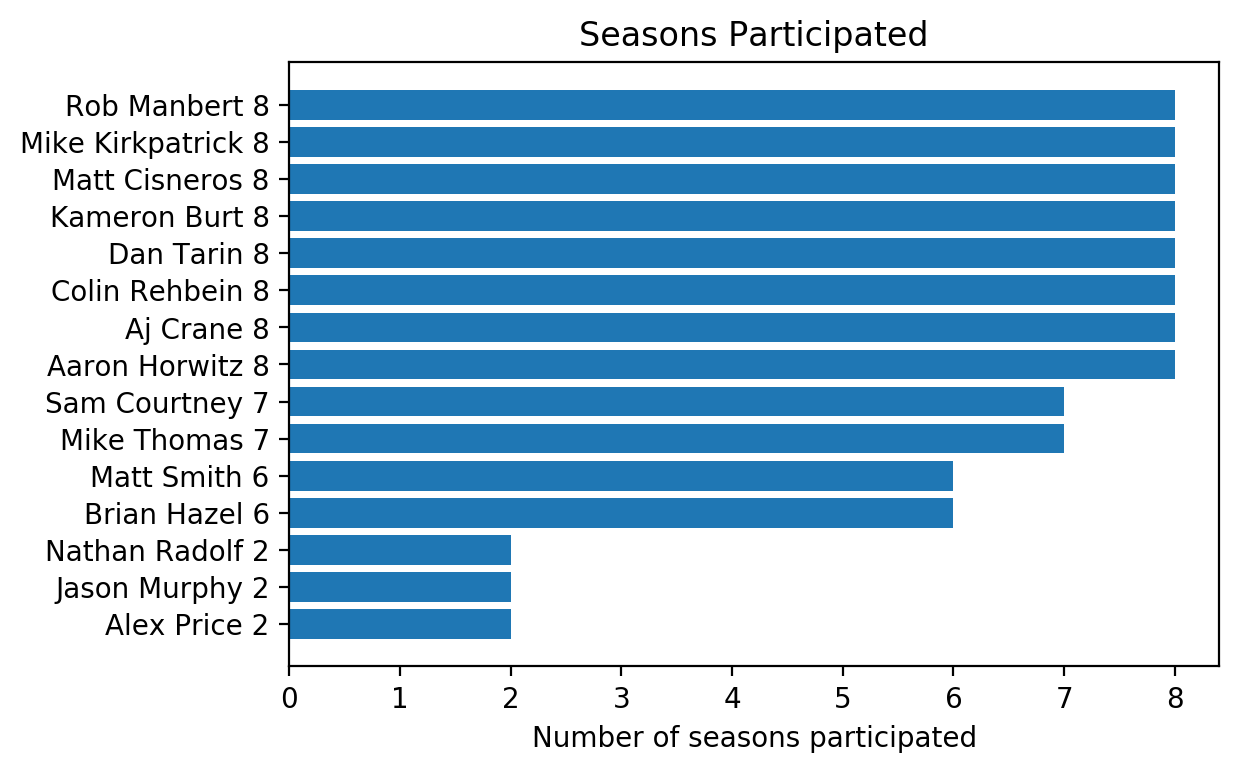
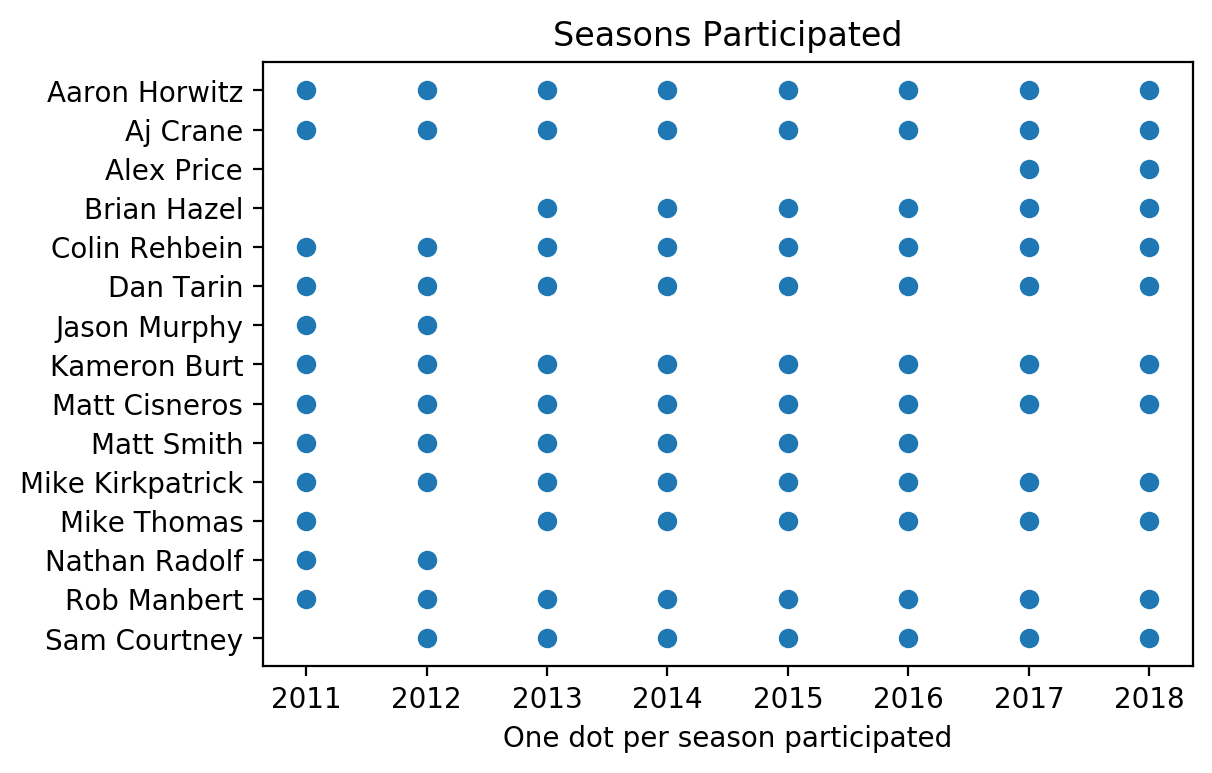
saving work

diff --git a/analyses.py b/analyses.py
@@ -6,31 +6,6 @@ Created on Sat Oct 26 22:30:03 2019
 @author: mike
 """
 
-Ideas:
-    Regular season:
-        -Win percentage
-        -Average reg season rank
-        -Average reg season points for
-        -Average reg season points against
-        Average Weekly Rank
-        -Bullshit wins
-        -Shitty losses
-        -Highest score ever
-        -Lowest score ever
-        -Bench composition
-        -Poor Coaching (players with 0 points not on bench)
-        -Transactions
-        -Trades
-    Playoffs:
-        -Appearances
-        -Wins
-        -Medalists
-    General Trends:
-        Average points per week
-    See if players that win during the week actually influence the fantasy outcome
-
-
-
 from os import chdir
 chdir('/home/mike/fantasy-football-analyses')
 import numpy as np
@@ -245,27 +220,16 @@ oswpDf['poorCoaching'] = oswpDf.apply(poorCoaching, axis=1)
 #~~~~~~~~~~                         ~~~~~~~~~~#
 #~~~~~~~~~~~~~~~~~~~~~~~~~~~~~~~~~~~~~~~~~~~~~#
 
-
 #~~~~~~~~~~~~~~~~~~~~~~~~~~~~~~#
 #     Seasons Participated     #
 #~~~~~~~~~~~~~~~~~~~~~~~~~~~~~~#
 def plotSeasonsParticipated(df):
-    measureLabel = 'Coach'
-    df[measureLabel] = df.coach
-    temp = pd.DataFrame(df.groupby('coach')[measureLabel].count())
-    temp = temp.sort_values(by=[measureLabel])
-    labels = list(temp.index.values)
-    newLabels = []
-    for label in labels: 
-        y_pos = np.arange(len(temp))
-        newLabel = label +' '+ str(int(temp[measureLabel][label]))
-        newLabels.append(newLabel) 
-    plt.barh(y_pos, temp[measureLabel])
-    plt.yticks(y_pos, newLabels)
+    df = df.sort_values(by=['coach'], ascending=False)
+    plt.scatter(df.season, df.coach)
     plt.title('Seasons Participated')
-    plt.xlabel('Number of seasons participated')
+    plt.xlabel('One dot per season participated')
     plt.savefig('plots/seasons_participated.png', dpi=200, bbox_inches='tight')
-
+    
 plotSeasonsParticipated(osDf)
 
 

diff --git a/README.md b/README.md
@@ -21,7 +21,7 @@ NFL Fantasy Football, Webscraping, python.
 ## Coaches
 
 ### Seasons Participated
-`Blah blah blah`
+Every season we've had 12 coaches. You get a dot per season you participated.
 ![Alt text](./plots/seasons_participated.png?raw=true)
 
 
